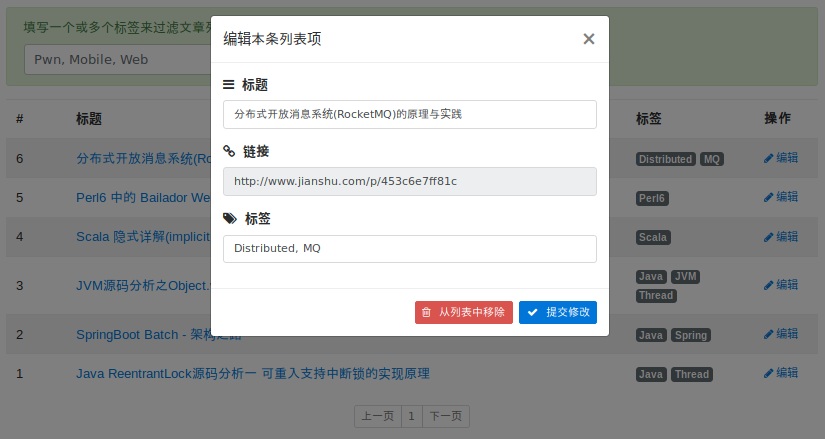
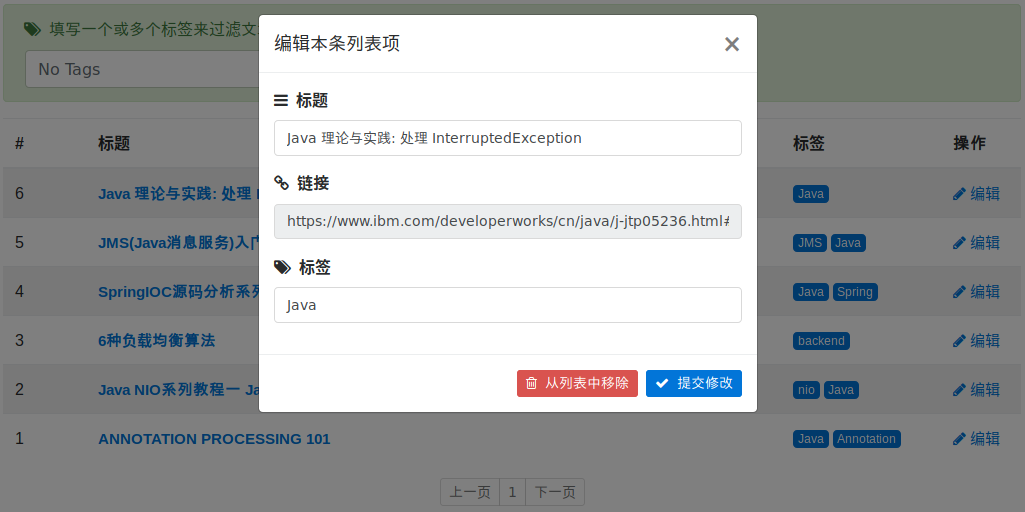
- fix a bug raised by previous new feature - update art - placeholder in 'Tag' for editModal

diff --git a/html/page.html b/html/page.html
@@ -48,7 +48,7 @@
                             <label for="modalInputTags" style="font-size: 16px; font-weight: 600"><i
                                     class="fa fa-tags"></i>&nbsp;&nbsp;标签</label></div>
                         <input style="font-size: 14px; display: table; width: 100%" id="modalInputTags"
-                               class="form-control"/>
+                               class="form-control" placeholder="No Tags"/>
                     </div>
                 </form>
             </div>

diff --git a/js/page-edit.js b/js/page-edit.js
@@ -61,7 +61,7 @@
       var j, ref, results;
       results = [];
       for (i = j = 0, ref = spans.length - 1; 0 <= ref ? j <= ref : j >= ref; i = 0 <= ref ? ++j : --j) {
-        if ($(spans.item(i)).is('span')) {
+        if ($(spans.item(i).childNodes[0]).is('span')) {
           results.push($(spans.item(i)).text());
         }
       }
